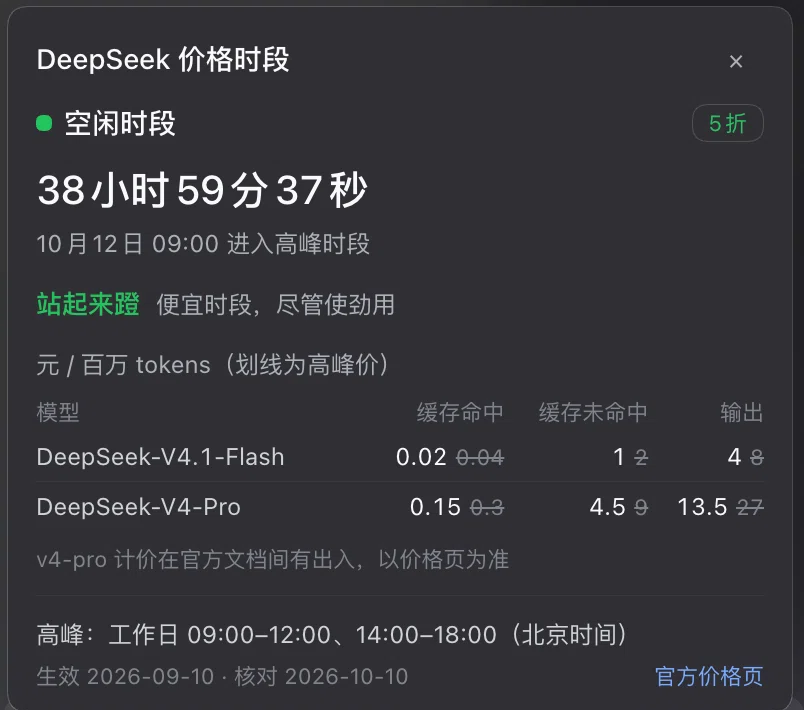
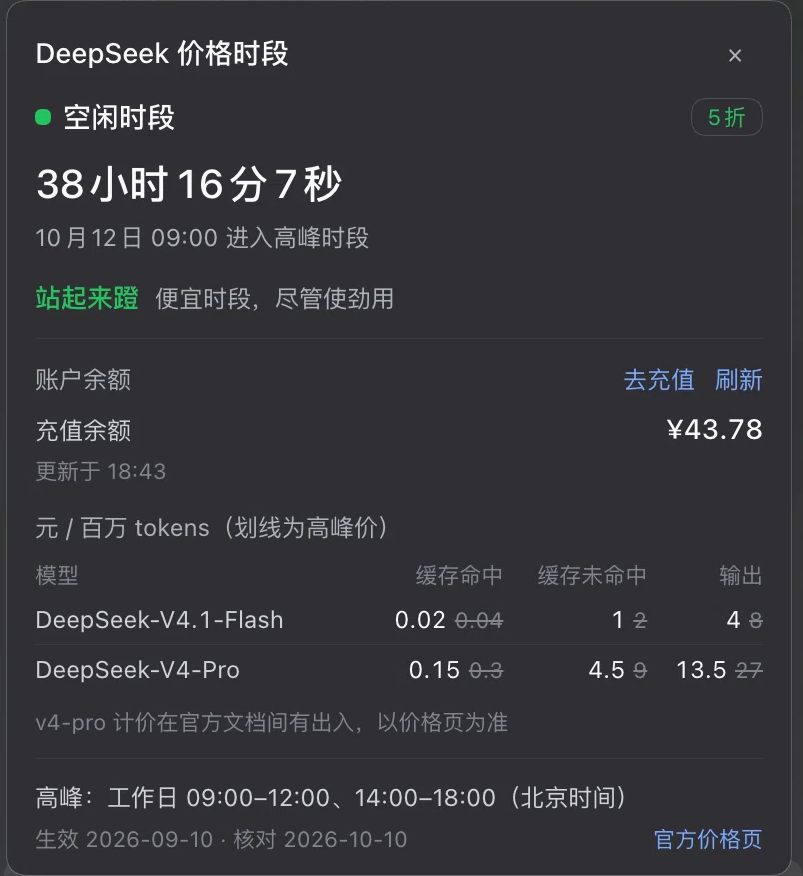
docs: 换上含余额区块的面板截图
浅色与深色两张面板截图都换成 v1.1 的实拍，新增的「账户余额」区块
（充值余额、更新时间、去充值 / 刷新）随之可见，深色图裁掉了上下
残留的页面背景。验证记录同步更新：面板 14 行、余额按真实账户渲染、
赠送余额为 0 时不出行；未验证项收敛为余额的降级形态、登录态切换、
多币种与刷新/跳转行为。

diff --git a/docs/verification.md b/docs/verification.md
@@ -10,10 +10,11 @@
 | 渲染 | 标记与面板均按设计渲染（截图见下），客户端 bundle 经 HMR 生效，槽位注册成功 |
 | 侧栏口号 | 徽标同一行显示「空闲时段　站起来蹬　40:24」：状态主色、口号状态色、倒计时右对齐 |
 | 面板口号 | 面板里是「**站起来蹬**　便宜时段，尽管使劲用」：口号状态色加粗、解释弱化色小字 |
-| 面板层级 | 精简后 13 行，顺序为 状态 → 剩余时间与切换时刻 → 口号 → 价目表 → 规则与来源；实现细节不在面板内 |
+| 面板层级 | 14 行，顺序为 状态 → 剩余时间与切换时刻 → 口号 → 账户余额 → 价目表 → 规则与来源；实现细节不在面板内 |
 | 深色 · 侧栏 | 徽标在深色主题下同样清晰：状态主色、口号绿色、倒计时弱化色（背景亮度中位数 59/255） |
-| 深色 · 面板 | 13 行版式与浅色一致；划线高峰价、灰色说明、蓝色链接在深底上均可辨（背景亮度中位数 48/255） |
-| 数值 | 截图倒计时与 `src/policy.js` 的计算**吻合**：侧栏 `40:24` = 周六 16:36 → 周一 09:00；面板 `39 小时 14 分 25 秒` 同理；深色侧栏 `38:59` = 18:00 → 周一 09:00；深色面板 `38 小时 59 分 37 秒` 同理 |
+| 深色 · 面板 | 14 行版式与浅色一致；余额区块、划线高峰价、灰色说明、蓝色链接在深底上均可辨（背景亮度中位数 48/255） |
+| 余额展示 | 浅色与深色面板都按真实账户渲染「账户余额」区块：充值余额右对齐、两位小数；赠送余额为 0 时该行不出现；「去充值」「刷新」在标题行右端；`更新于 18:43 / 18:44` 与截图时刻一致 |
+| 数值 | 截图倒计时与 `src/policy.js` 的计算**吻合**：侧栏 `40:24` = 周六 16:36 → 周一 09:00；深色侧栏 `38:59` = 18:00 → 周一 09:00；面板 `38 小时 15 分 35 秒`（18:44:25）与深色面板 `38 小时 16 分 7 秒`（18:43:53）同指周一 09:00 |
 | 界面语言 | 切换时刻显示为 `10 月 12 日 09:00`（中文日期 + 24 小时制）；修正前是 `10/12, 09:00 AM` |
 | 弹层背景 | 同参数对比度拉伸下：改动前能还原出背后的正文碎片，改动后只剩纯色背景 |
 | 测试 | `node --test test/` — 38 项全绿（规则 12 · 余额 16 · 产物与清单 10） |
@@ -44,7 +45,7 @@
 
 ![完整窗口](screenshot-app.png)
 
-点击标记展开的面板：
+点击标记展开的面板（含 v1.1 的「账户余额」区块）：
 
 ![展开后的详情面板](screenshot-panel.png)
 
@@ -54,21 +55,20 @@
 
 ![深色主题下的侧栏标记](screenshot-sidebar-dark.png)
 
-点击标记展开的面板（与浅色同一版式；划线的高峰价在深底上依然可辨）：
+点击标记展开的面板（与浅色同一版式；余额区块与划线的高峰价在深底上依然可辨）：
 
 ![深色主题下的详情面板](screenshot-panel-dark.png)
 
 ## 未验证
 
-截图覆盖**浅色与深色两套主题下的侧栏与面板**（完整窗口仅浅色）；截图拍于 v1.0，**不含 v1.1 新增的余额区块**。
+截图覆盖**浅色与深色两套主题下的侧栏与面板**（完整窗口仅浅色），两张面板截图都已包含 v1.1 的余额区块。
 以下仍只有代码审阅与结构测试：
 
-- **余额区块的观感**——版式、与价目表的间距、刷新/去充值按钮的观感均未实拍（本机已登录的 DeepSeek 账户
-  可以取到真实余额，但截图未重拍）。
 - **余额的三种降级形态**——未登录、读取失败（保留上次结果 + stale 标注）、无账户控制器的配置档（整块隐藏），
-  均未实际触发过。
-- **登录态切换**——签入/登出后 `credentials/record-updated` 触发重读，静态测试无法证明。
+  均未实际触发过（截图是已登录且读取成功的那一种）。
+- **登录态切换**——签入/登出后 `credentials/record-updated` 触发重读，静态截图无法证明。
 - **多币种钱包**——只按代码逐行渲染，未见过 CNY/USD 同时存在的真实返回。
+- **刷新按钮与去充值链接的行为**——点击后的重读结果与跳转未验证，截图只证明它们是可点的按钮/链接。
 - **侧栏折叠（rail）态**——宽度小于约 240px 时改走 36×36 的图标样式，未实拍。
 - **高峰时段的口号**——现有五张截图都是空闲时段，因此「心疼着蹬 / 贵时段，蹬一下心疼一下」这一支只有字典与分支测试覆盖，没有实拍。
 - **交互行为**——Escape / 点击空白关闭、跨过切换时刻时文案翻转；静态截图无法证明。

diff --git a/README.md b/README.md
@@ -10,9 +10,9 @@ DeepSeek 账户的余额。
 
 ![点击标记展开的面板](docs/screenshot-panel.png)
 
-*点击展开：当前时段与折扣、剩余时间与切换时刻（本机时区、跟随界面语言）、口号、账户余额、价目表（加粗为当前价、
-划线为高峰价），以及底部的规则与来源。余额区块为 v1.1 新增，截图尚未重拍（见
-[docs/verification.md](docs/verification.md)）；深色主题下的侧栏与面板见该文。*
+*点击展开：当前时段与折扣、剩余时间与切换时刻（本机时区、跟随界面语言）、口号、账户余额（充值/赠送余额、
+更新时间、刷新与去充值）、价目表（加粗为当前价、划线为高峰价），以及底部的规则与来源。深色主题下的侧栏与面板见
+[docs/verification.md](docs/verification.md)。*
 
 ## 它提醒什么
 
